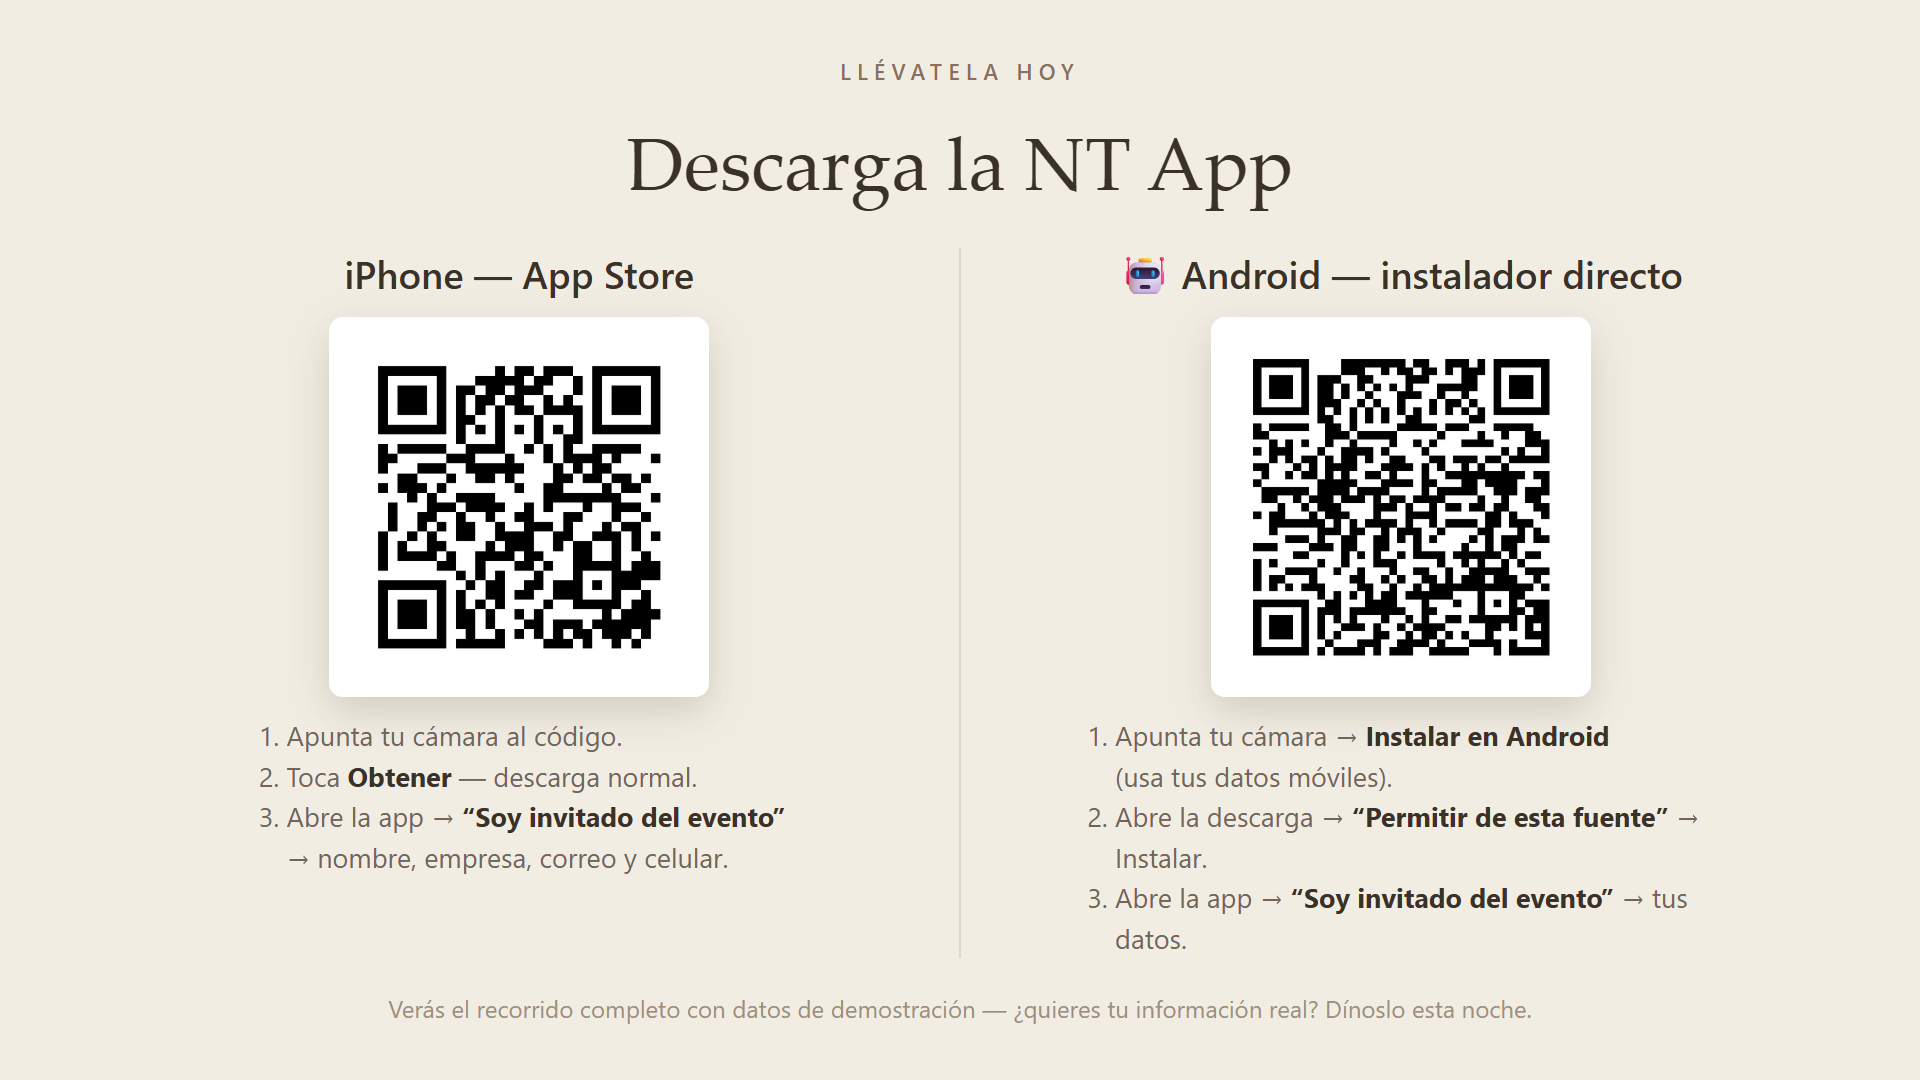
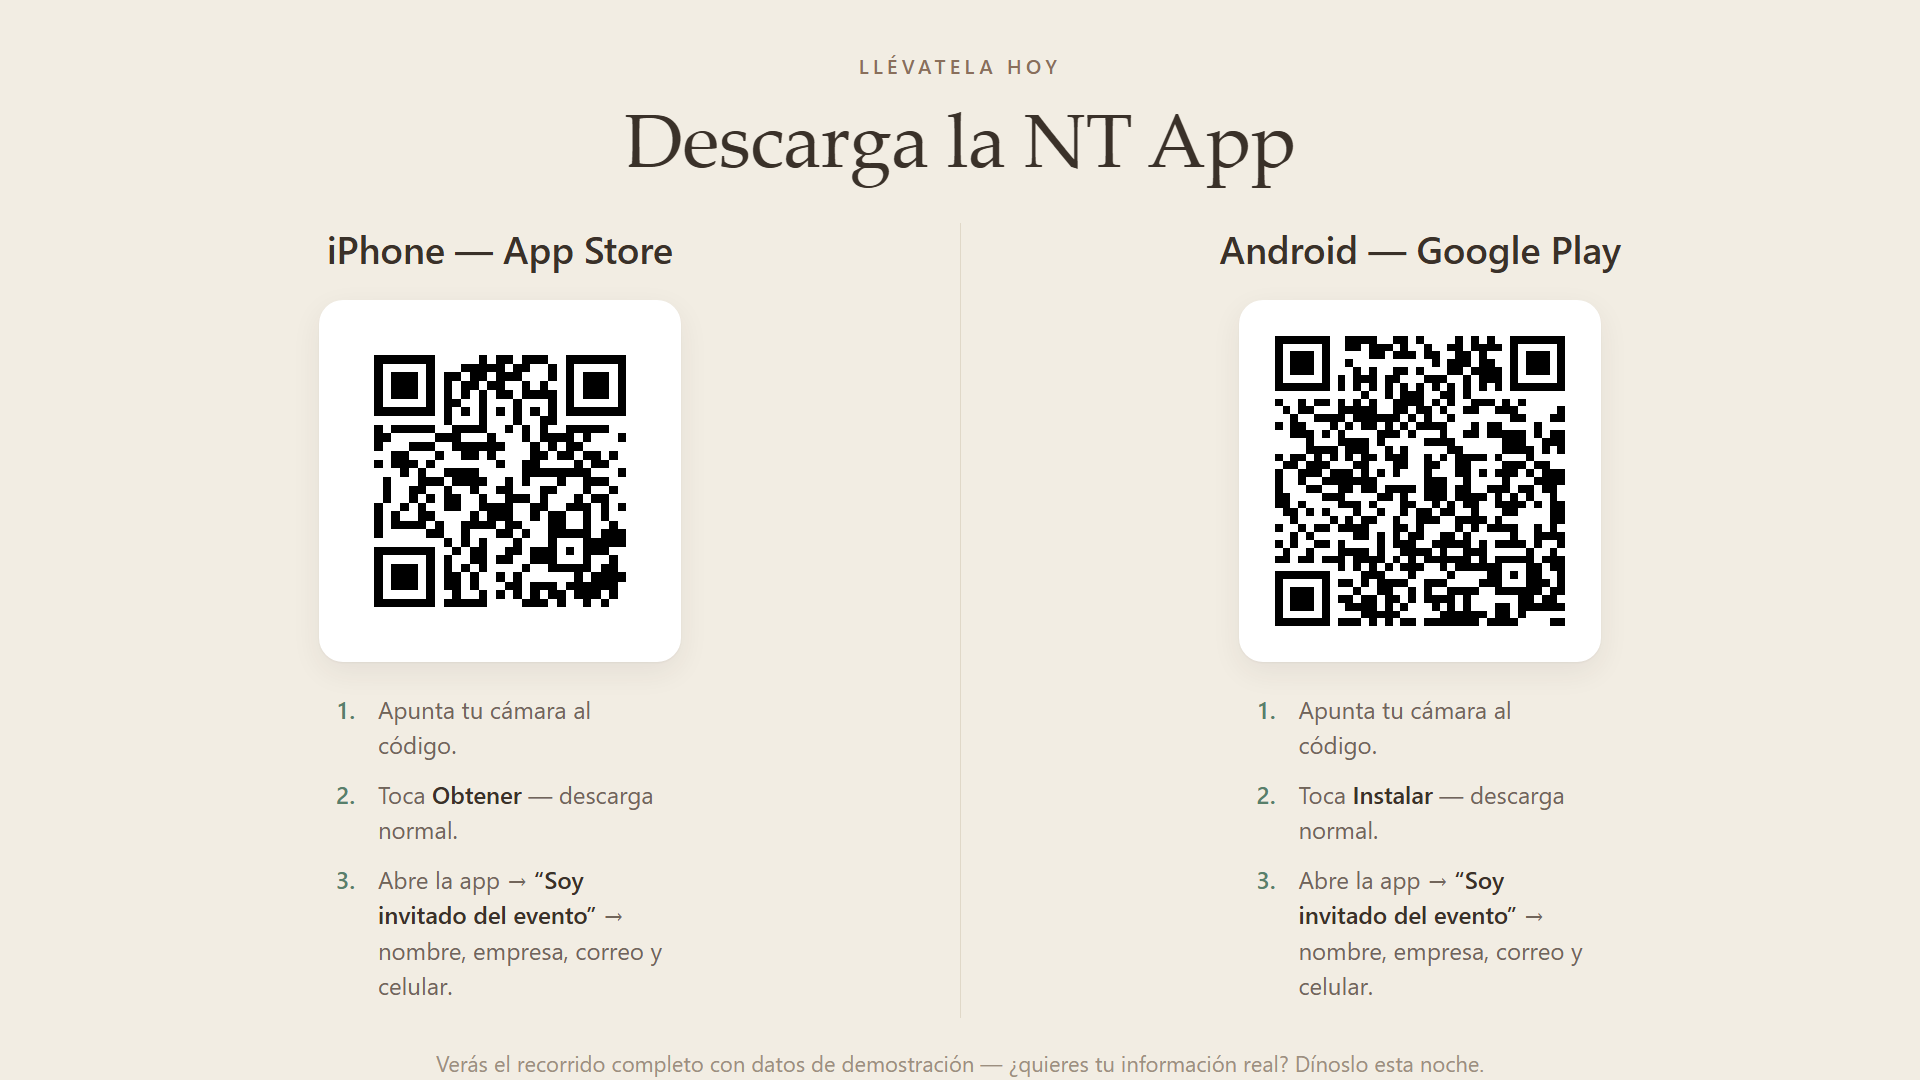
QR del evento: Android ahora va a Google Play, no al instalador directo
La app se publico hoy en Google Play, asi que el lado de Android de la lamina
—que decia "instalador directo" y pedia "Permitir de esta fuente"— quedo
obsoleto. Ahora los dos lados son simetricos y de tres pasos iguales.

- img/qr-play.png|svg: QR nuevo a play.google.com/store/apps/details?id=com.naturaltrade.ntapp
  Correccion de errores M (no H): en pantalla no hace falta blindaje y baja la
  densidad de 57x57 a 45x45 modulos, la misma del QR de App Store. Verificado
  sobre la lamina renderizada: ambos se leen hasta ~1/3 de su tamano proyectado.
- img/lamina-qr.png: lamina rehecha 1920x1080 en Dueto Tierra (sin el emoji,
  que el sistema prohibe como marcador).
- descargar.html: el boton de Android abre Google Play; el APK queda como
  alternativa visible por si Play falla.

Changed region(s): [[0.125, 0.2139, 0.875, 0.9472], [0.3125, 0.0611, 0.6875, 0.1833], [0.2188, 0.9778, 0.7812, 1.0]]

diff --git a/descargar.html b/descargar.html
@@ -132,21 +132,22 @@ a{color:var(--acc)}
 
   <!-- Android -->
   <section id="android" class="hide">
-    <a class="btn" id="btnAnd" href="apk/NT-App.apk">Instalar en Android</a>
+    <a class="btn" id="btnAnd" href="https://play.google.com/store/apps/details?id=com.naturaltrade.ntapp">Instalar en Android</a>
     <div class="pasos">
       <h2>Tres pasos</h2>
       <ol>
-        <li>Toca el botón — se descarga el <b>instalador oficial</b> (~90 MB; con datos móviles o buen WiFi).</li>
-        <li>Ábrelo. Si tu teléfono pregunta, toca <b>"Permitir de esta fuente"</b> y luego <b>Instalar</b>.</li>
+        <li>Toca el botón — se abre <b>Google Play</b>.</li>
+        <li>Toca <b>Instalar</b> (descarga normal, sin nada extra).</li>
         <li>Abre la app y escribe tu <b>nombre y celular</b>. Listo, ya estás dentro.</li>
       </ol>
+      <p class="nota">¿No te deja Google Play? <a href="apk/NT-App.apk">Descarga el instalador directo</a>.</p>
     </div>
   </section>
 
   <!-- Computadora o teléfono no reconocido -->
   <section id="ambos" class="hide">
     <a class="btn" href="https://apps.apple.com/mx/app/id6795663750">Instalar en iPhone</a>
-    <a class="btn" href="apk/NT-App.apk">Instalar en Android</a>
+    <a class="btn" href="https://play.google.com/store/apps/details?id=com.naturaltrade.ntapp">Instalar en Android</a>
     <div class="nota">Abre esta página desde tu teléfono para que el botón correcto salga solo.</div>
   </section>
 
@@ -169,7 +170,7 @@ const esAndroid = /Android/.test(ua);
 
 const ver = (id) => document.getElementById(id).classList.remove('hide');
 const OTRO = {
-  ios:     ['¿Traes Android?', 'apk/NT-App.apk', 'Instalar en Android'],
+  ios:     ['¿Traes Android?', 'https://play.google.com/store/apps/details?id=com.naturaltrade.ntapp', 'Instalar en Android'],
   android: ['¿Traes iPhone?',  'https://apps.apple.com/mx/app/id6795663750',                  'Instalar en iPhone'],
 };
 
